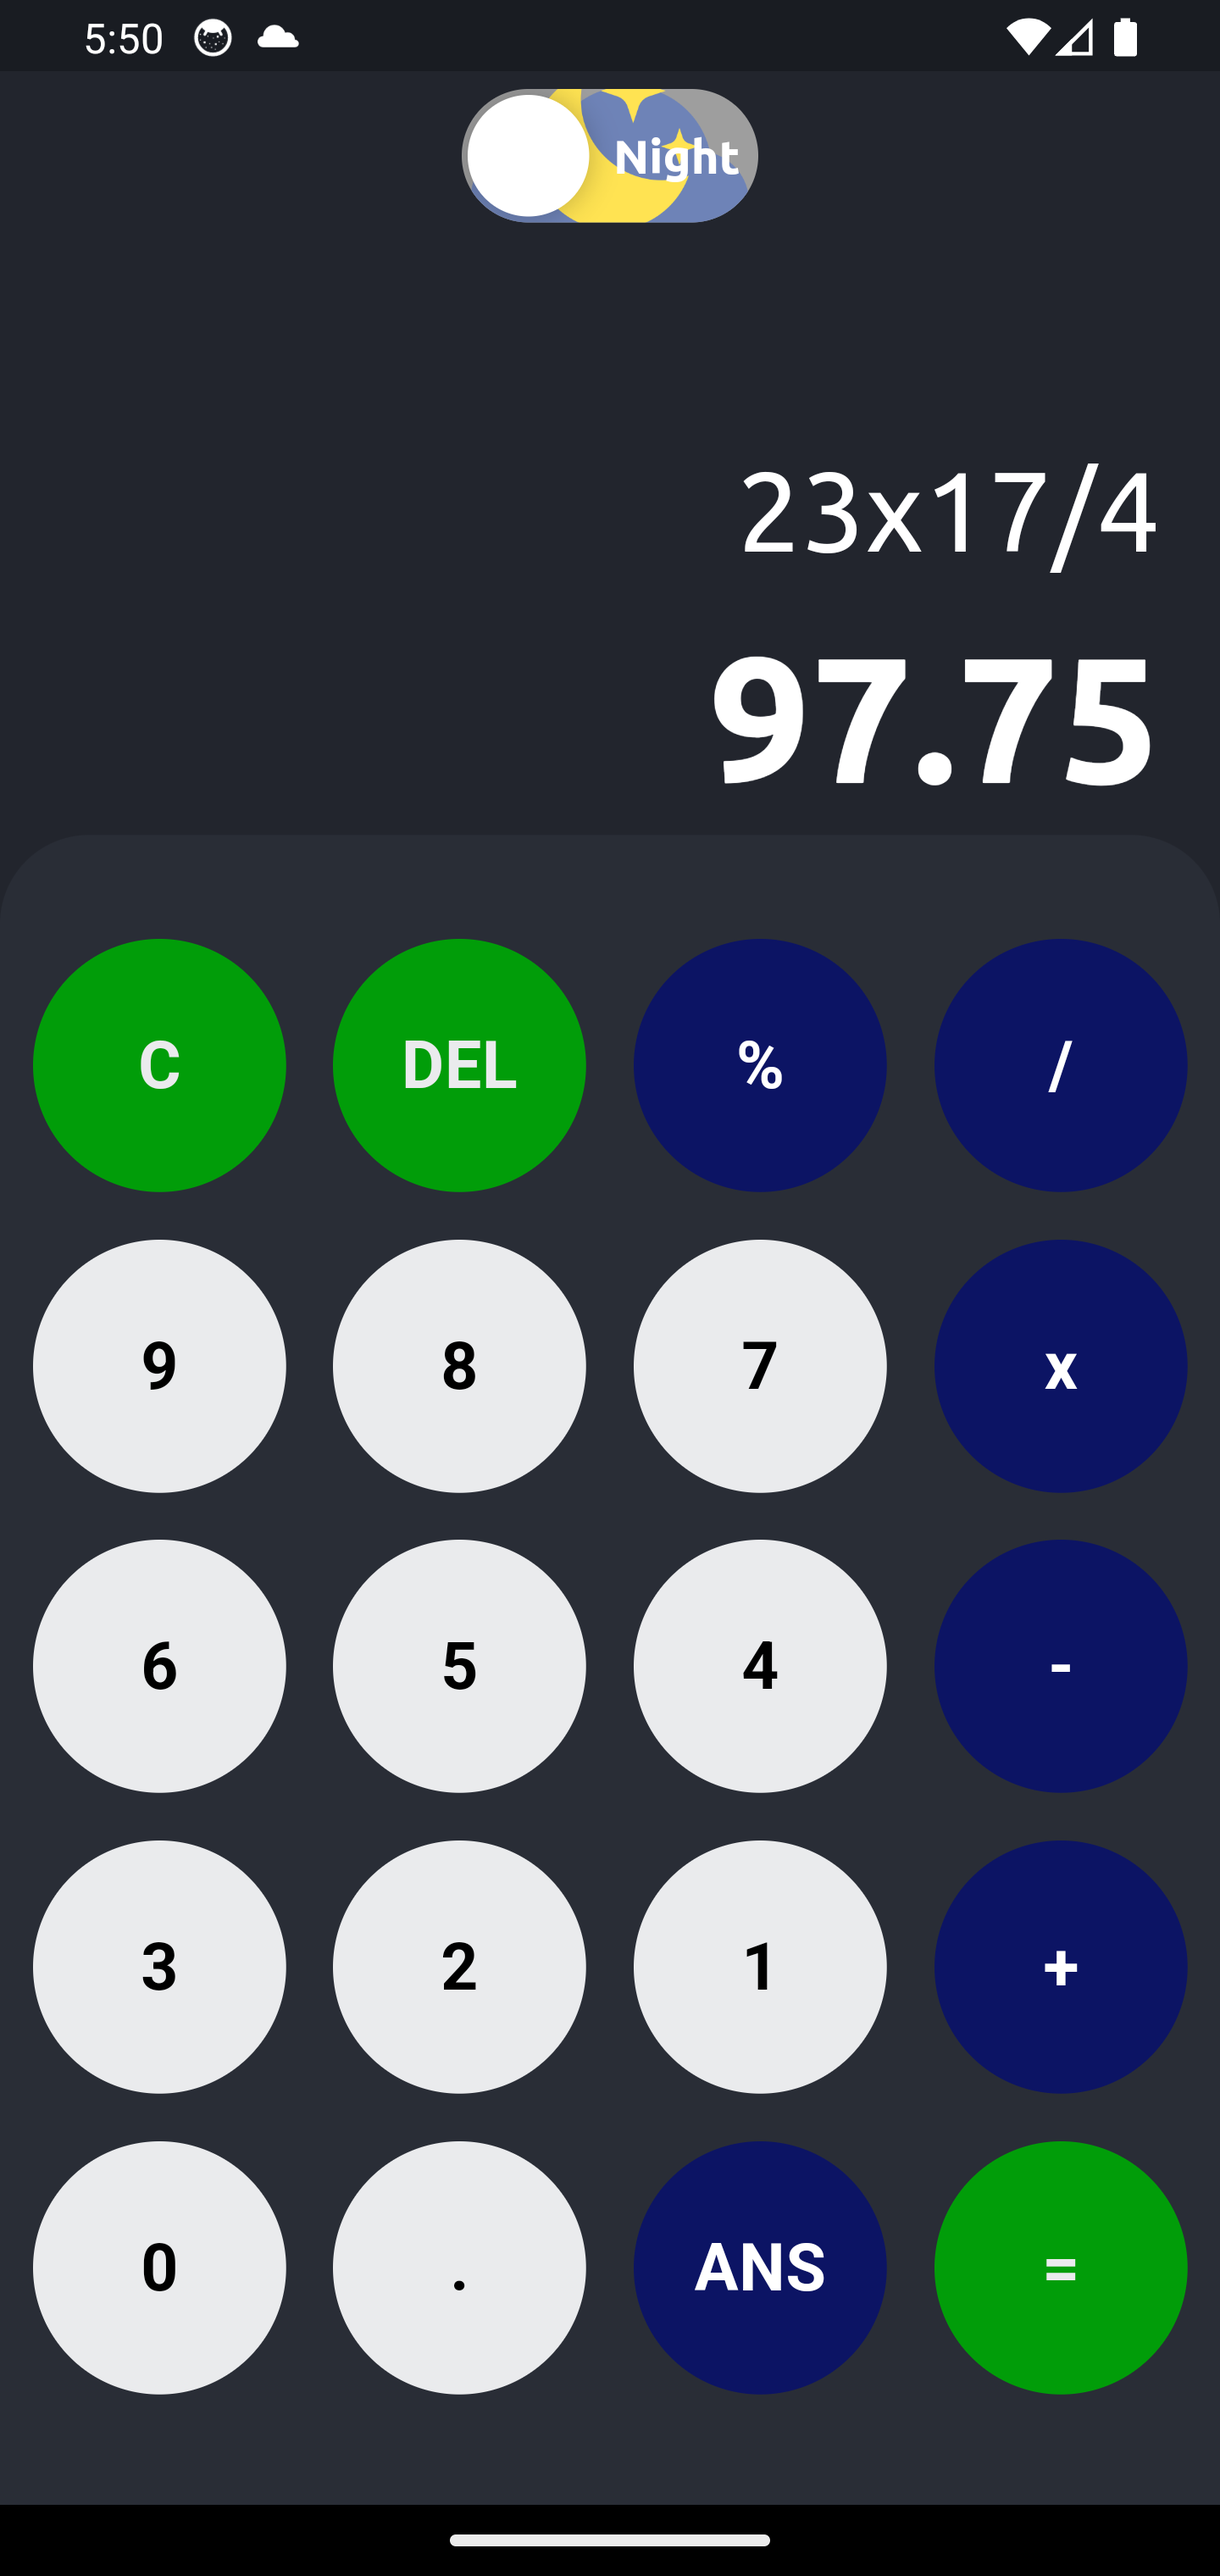
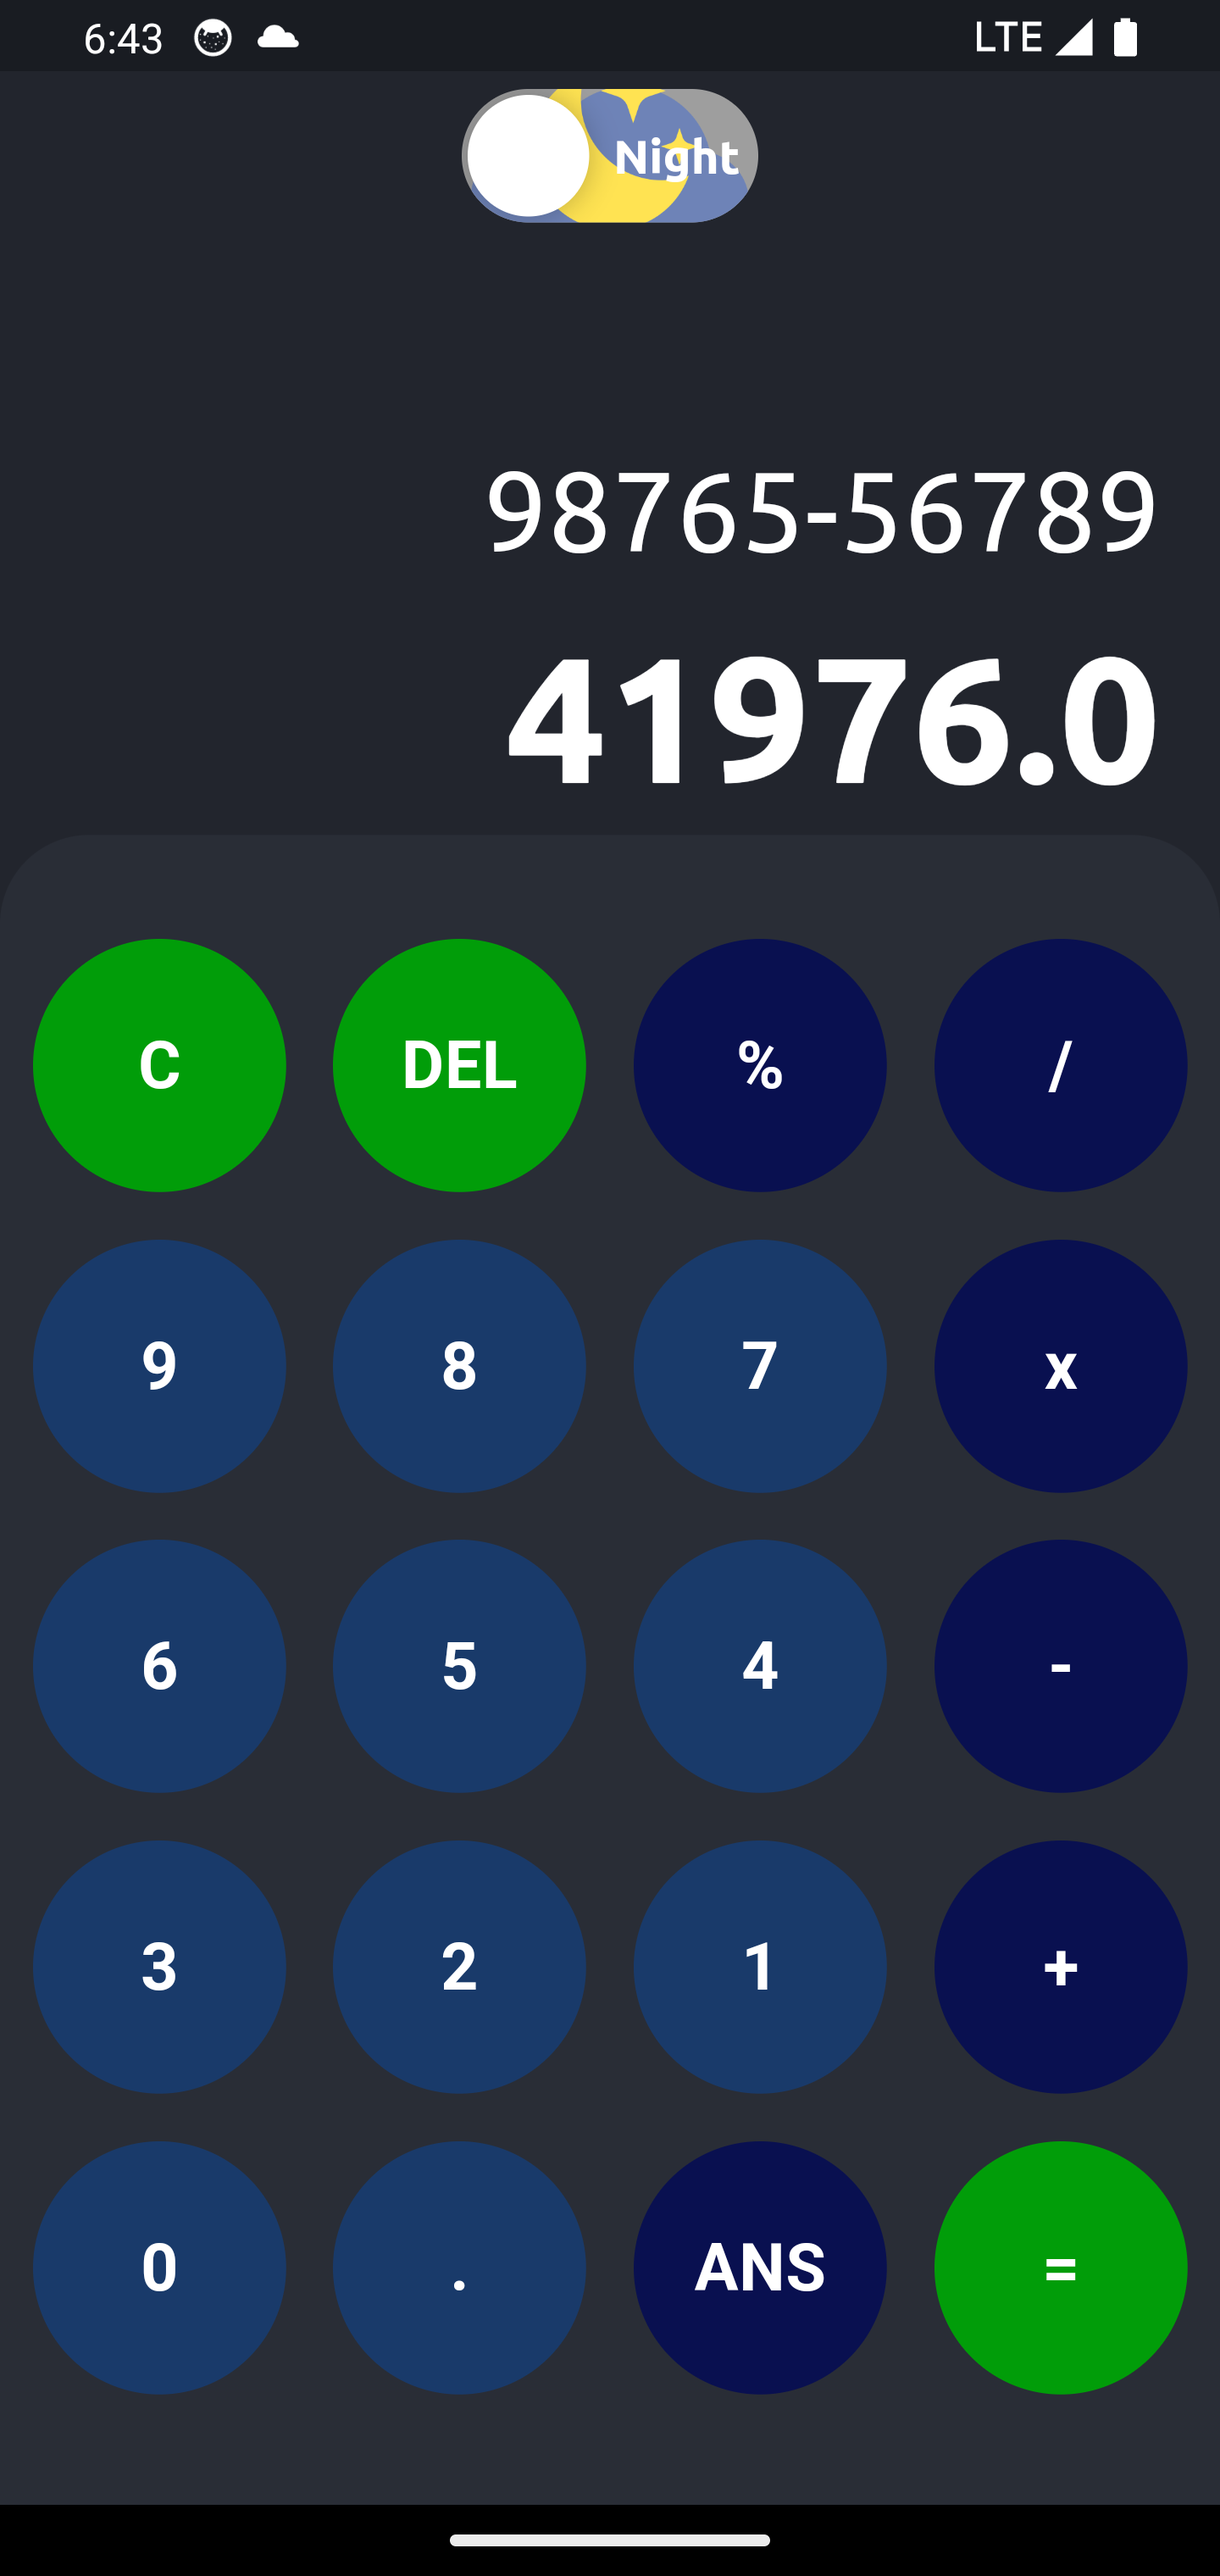
update

diff --git a/lib/screen/main_screen.dart b/lib/screen/main_screen.dart
@@ -85,8 +85,8 @@ class MainScreen extends StatelessWidget {
                           ? DarkColors.leftOperatorColor
                           : LightColors.leftOperatorColor,
                       textColor: themeController.isDark
-                          ? DarkColors.btnBgColor
-                          : DarkColors.btnBgColor,
+                          ? Colors.white
+                          : Colors.white,
                       text: buttons[index],
                     );
 
@@ -100,8 +100,8 @@ class MainScreen extends StatelessWidget {
                             ? DarkColors.leftOperatorColor
                             : LightColors.leftOperatorColor,
                         textColor: themeController.isDark
-                            ? DarkColors.btnBgColor
-                            : DarkColors.btnBgColor,
+                            ? Colors.white
+                            : Colors.white,
                         text: buttons[index]);
 
                   /// EQUAL BTN
@@ -114,8 +114,8 @@ class MainScreen extends StatelessWidget {
                             ? DarkColors.leftOperatorColor
                             : LightColors.leftOperatorColor,
                         textColor: themeController.isDark
-                            ? DarkColors.btnBgColor
-                            : DarkColors.btnBgColor,
+                            ? Colors.white
+                            : Colors.white,
                         text: buttons[index]);
 
                   case 18:
@@ -147,7 +147,7 @@ class MainScreen extends StatelessWidget {
                       textColor: isOperator(buttons[index])
                           ? Colors.white
                           : themeController.isDark
-                              ? Colors.black
+                              ? Colors.white
                               : Colors.white,
                       text: buttons[index],
                     );

diff --git a/lib/utils/colors.dart b/lib/utils/colors.dart
@@ -4,15 +4,15 @@ import 'package:flutter/material.dart';
 class DarkColors {
   static const scaffoldBgColor = Color(0xff22252D);
   static const sheetBgColor = Color(0xff292D36);
-  static const btnBgColor = Color.fromARGB(255, 234, 235, 237);
+  static const btnBgColor = Color.fromARGB(255, 25, 58, 106);
   static const leftOperatorColor = Color.fromARGB(255, 1, 157, 9);
 }
 
 /// Light Them Colors
 class LightColors {
   static const scaffoldBgColor = Color(0xffFFFFFF);
-  static const sheetBgColor = Color(0xffF9F9F9);
-  static const btnBgColor = Color.fromARGB(255, 147, 147, 147);
-  static const operatorColor = Color.fromARGB(255, 12, 20, 100);
+  static const sheetBgColor = Color.fromARGB(255, 196, 196, 196);
+  static const btnBgColor = Color.fromARGB(255, 128, 128, 128);
+  static const operatorColor = Color.fromARGB(255, 9, 16, 80);
   static const leftOperatorColor = Color.fromARGB(255, 1, 157, 32);
 }
